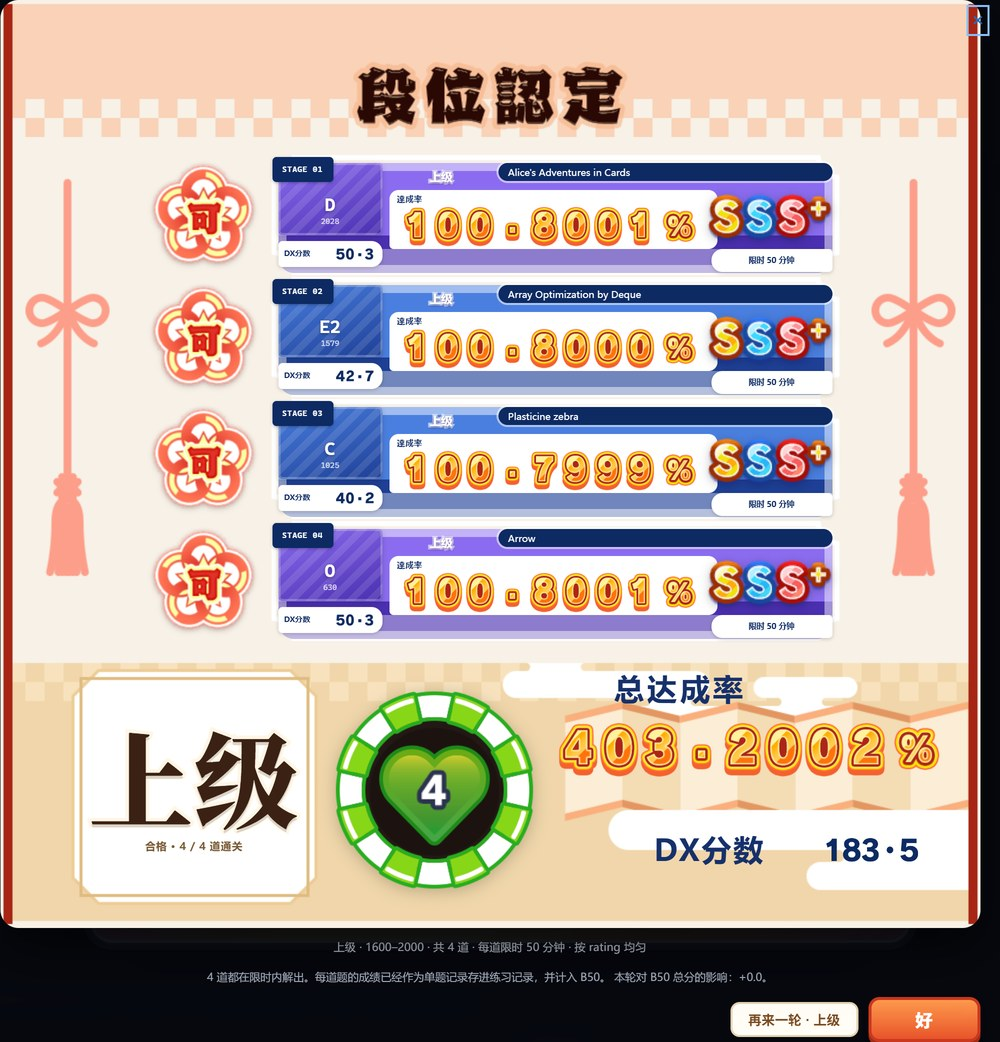
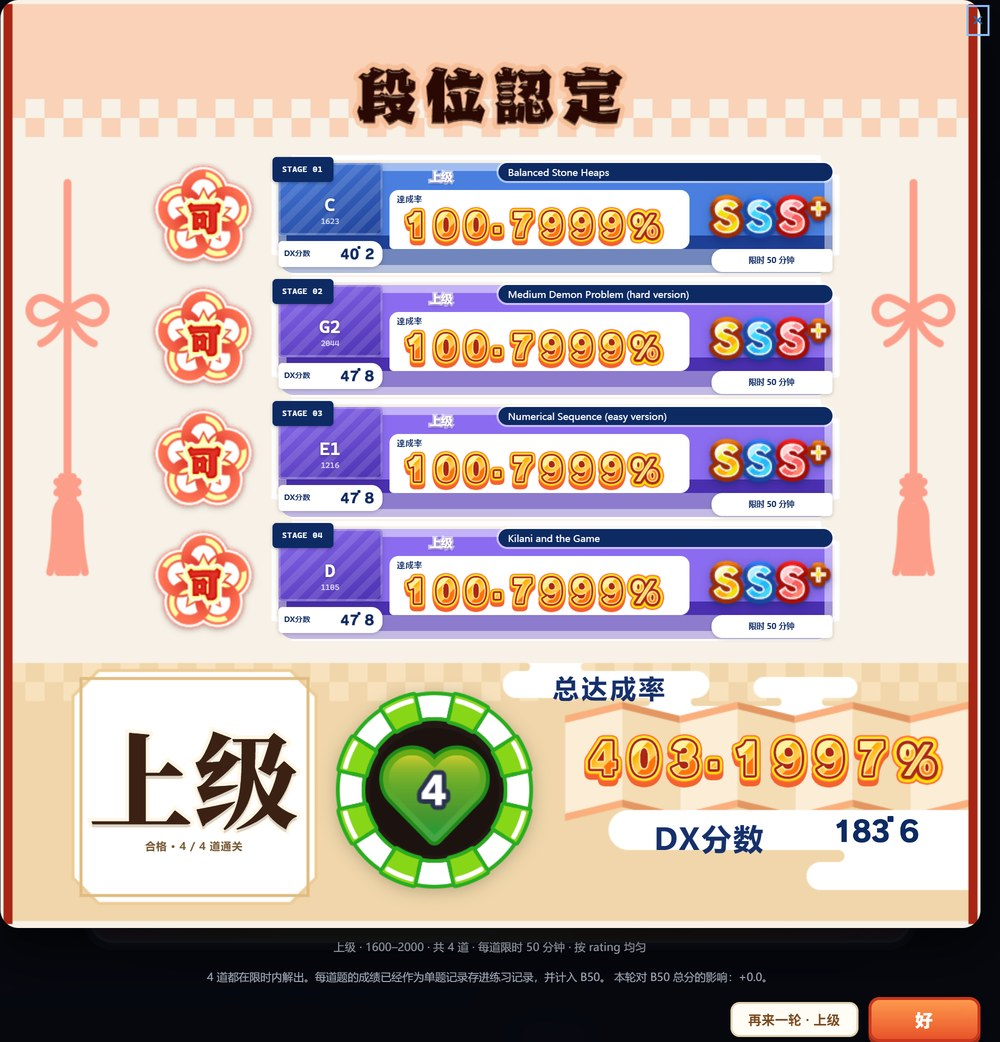
fix: tighten the dan digits, narrow the score box, lift the DX row
第 13 轮的第二次返工（对着渲染图逐条改）：

- **字距**：分数族的「.」那一格墨迹只有 33px 宽、格子却有 74，左右各留 20px 空白 ——
  照格宽排出来就是「403 ・ 1998」中间断一截；末尾那个「%」是 80×80 的方图，四周同样
  留白，直排又多一截。现在 numText 对窄字形按**墨迹裁格**（格宽取墨宽、背景左移掉左空、
  步进另给 36），「%」放大到 1.1 倍字高再用负边距抵掉左边留白。数字本身仍是等宽步进
  （和官方一致），只是不再被格子留白撑开。
- **小数点**：白字族图集里的小数点是个**居中方块**（26p 那张只有 8×8、y 18..25），
  小字号下读起来像断字符 —— DX 分数（单题 rating / DX 总分）改成**自画的贴底方块**
  （边长 0.19 字高，底边压在数字基线上）。达成率那串仍用图集自带的方形小数点（官方那张
  就是居中的方块）。
- **卡片分数格**：白框 328 → 300 宽。原来框尾 439、徽章从 436 起，徽章压着框的一角，
  看着像徽章占了分数格；现在框尾 411、徽章左 436，中间留 25px。E2E 新增一条断言：
  数字不许溢出白框、白框与徽章至少留 10px（数字宽度取里面那串 .dan-num 的实际宽度）。
- **底带**：`总达成率` 字号 30 → 26，按实测白区 `x 503..708` 居中（原来排在 583..690，
  偏右）；大数字下移 8px、字高 60 → 66、右端 945 → 950；`DX分数` 那一行原来跟着
  360×80 的白牌垂直居中，可白牌下半截被折页斜切掉一块，文字一半落在折线上，现在靠上排
  （y 816 起）。

顺带修掉 E2E 里两处坐标系混用：行内格子是行坐标、印与徽章是底图坐标，`inRow()` 之前
给徽章又加了一次行原点，导致扣图与断言都在错的偏移上（像素探针里「可」印的红像素因此
从 2820 掉到 999）。

314 个单测 / 三个场景的 E2E / 像素探针全绿。

diff --git a/public/dan.js b/public/dan.js
@@ -670,15 +670,18 @@ const SCORE_INDEX = {
  * 分开」。官方是等距密排（字与字几乎贴上），所以每格按 `advance` 收回去一点，见 numText。
  */
 const NUM_FONTS = {
-  n26: { fill: 'num-26p', outline: 'num-26p-outline', atlas: [136, 160], cell: [34, 40], advance: 24, chars: NUM_INDEX },
-  n90: { fill: 'num-90p', outline: 'num-90p-outline', atlas: [356, 420], cell: [89, 105], advance: 67, chars: NUM_INDEX },
+  // `ink` 是那几格**窄字形**的墨迹（左空 + 墨宽 + 步进），单位是图集像素 —— 图集按格宽排字
+  // 会把小数点两侧各空出 20/74 格，看着就是「403 ・ 1998」中间断了一截。
+  // `baseline` 是数字墨迹底线在格高里的比例，画小数点方块时按它贴底。
+  n26: { fill: 'num-26p', outline: 'num-26p-outline', atlas: [136, 160], cell: [34, 40], advance: 24, baseline: 0.825, dot: 'drawn', chars: NUM_INDEX, ink: { '.': [14, 8, 16] } },
+  n90: { fill: 'num-90p', outline: 'num-90p-outline', atlas: [356, 420], cell: [89, 105], advance: 67, baseline: 0.886, dot: 'drawn', chars: NUM_INDEX, ink: { '.': [32, 24, 32] } },
   // 分数数字是**三套**同布局不同颜色的图集（自带颜色，不再叠描边层）：
 // blue / gold / red，按达成率高低换。官方还有一张 `UI_NUM_Score_0001111_Base`，
 // 但那是一张**空图集**（整张几乎全透明，量下来 16 格一个字形都没有），不能用；
 // 「%」字形也正好只有蓝/金/红三张 —— 所以官方的档位就是三档，不是四档。
-'score-blue': { fill: 'num-score-blue', outline: '', atlas: [296, 392], cell: [74, 98], advance: 67, chars: SCORE_INDEX },
-  'score-gold': { fill: 'num-score-gold', outline: '', atlas: [296, 392], cell: [74, 98], advance: 67, chars: SCORE_INDEX },
-  'score-red': { fill: 'num-score-red', outline: '', atlas: [296, 392], cell: [74, 98], advance: 67, chars: SCORE_INDEX },
+'score-blue': { fill: 'num-score-blue', outline: '', atlas: [296, 392], cell: [74, 98], advance: 67, baseline: 0.836, dot: 'atlas', chars: SCORE_INDEX, ink: { '.': [21, 33, 36] } },
+  'score-gold': { fill: 'num-score-gold', outline: '', atlas: [296, 392], cell: [74, 98], advance: 67, baseline: 0.836, dot: 'atlas', chars: SCORE_INDEX, ink: { '.': [21, 33, 36] } },
+  'score-red': { fill: 'num-score-red', outline: '', atlas: [296, 392], cell: [74, 98], advance: 67, baseline: 0.836, dot: 'atlas', chars: SCORE_INDEX, ink: { '.': [21, 33, 36] } },
 };
 const NUM_COLS = 4;
 /** 达成率末尾那个大「%」字形：官方按分数分色，蓝/金/红三张。 */
@@ -706,7 +709,11 @@ function achievementNumber(achievement, height) {
   const percent = el('img', 'dan-per');
   percent.src = `/assets/maimai/${art}`;
   percent.alt = '';
-  percent.style.height = `${Math.round(height * 0.95)}px`;
+  // 官方那个「%」跟数字差不多高，而且**贴着**最后一个数字。`score-per-*` 是 80×80 的方图、
+  // 四周留白（墨迹 x 8..70 / y 10..69），直排会在数字和 % 之间多出一截空隙，所以放大一点
+  // 再把左边那圈留白用负边距抵掉。
+  percent.style.height = `${Math.round(height * 1.1)}px`;
+  percent.style.marginLeft = `${-Math.round(height * 0.16)}px`;
   wrap.append(percent);
   return wrap;
 }
@@ -737,15 +744,27 @@ function numText(text, fontKey, height, color, opts = {}) {
   wrap.setAttribute('aria-label', text);
   wrap.style.height = `${height}px`;
   const chars = [...text];
-  if (opts.trim !== false) {
-    // 每格右边收回 (格宽 − 步进)：官方数字是密排的，留白会把一串数字读散。
-    // 注意是**负**边距 —— 这里给的是「要收回多少」，CSS 里带负号用。
-    wrap.style.setProperty('--dan-num-trim', `${(font.cell[0] - (font.advance ?? font.cell[0])) * scale}px`);
-  }
   chars.forEach((ch, index) => {
     const cell = el('i', 'dan-num-char');
     cell.style.height = `${height}px`;
     if (index === chars.length - 1) cell.classList.add('dan-num-last');
+    // 白字族图集里的小数点是个**居中的方块**（26p 那张只有 8×8、y 18..25，正在字高中间），
+    // 小字号下读起来像断字符。这两个字号自己画一个贴底的方块当小数点。
+    if (ch === '.' && font.dot === 'drawn') {
+      const dot = Math.max(3, Math.round(height * 0.19));
+      const step = Math.round(height * 0.3);
+      cell.classList.add('dan-num-dot');
+      cell.style.width = `${dot}px`;
+      cell.style.setProperty('--dan-num-trim', `${dot - step}px`);
+      const ink = el('b', 'dan-num-dotink');
+      ink.style.width = `${dot}px`;
+      ink.style.height = `${dot}px`;
+      ink.style.background = color ?? NUM_OUTLINE_COLOR;
+      ink.style.marginBottom = `${Math.round(height * (1 - font.baseline))}px`;
+      cell.append(ink);
+      wrap.append(cell);
+      return;
+    }
     const idx = font.chars[ch];
     if (idx === undefined) {
       cell.textContent = ch;
@@ -754,11 +773,22 @@ function numText(text, fontKey, height, color, opts = {}) {
       wrap.append(cell);
       return;
     }
+    // 窄字形（小数点、逗号）按**墨迹**裁格：格宽取墨宽、背景左移掉左空，步进另给一个小的，
+    // 不然格子里那 20px 空白会整个变成字距。其余字形保持格宽，字距只按 advance 收。
+    const box = font.ink?.[ch];
+    const inkLeft = box ? box[0] : 0;
+    const inkWidth = box ? box[1] : font.cell[0];
+    const advance = box ? box[2] : (font.advance ?? font.cell[0]);
     const sx = (idx % NUM_COLS) * font.cell[0];
     const sy = Math.floor(idx / NUM_COLS) * font.cell[1];
     const size = `${font.atlas[0] * scale}px ${font.atlas[1] * scale}px`;
-    const pos = `${-sx * scale}px ${-sy * scale}px`;
-    cell.style.width = `${font.cell[0] * scale}px`;
+    const pos = `${-(sx + inkLeft) * scale}px ${-sy * scale}px`;
+    cell.style.width = `${inkWidth * scale}px`;
+    if (opts.trim !== false) {
+      // 每格右边收回 (格宽 − 步进)：官方数字是密排的，留白会把一串数字读散。
+      // 注意是**负**边距 —— 这里给的是「要收回多少」，CSS 里带负号用。
+      cell.style.setProperty('--dan-num-trim', `${(inkWidth - advance) * scale}px`);
+    }
     if (font.outline && opts.outline !== false) {
       const outline = el('b', 'dan-num-outline');
       const url = `url(/assets/maimai/${font.outline}.png)`;

diff --git a/public/dan.css b/public/dan.css
@@ -196,6 +196,9 @@
  * 最后一格不收回，免得数字尾巴多出一段空白。 */
 .dan-num-char { position: relative; display: block; flex: none; margin-right: calc(-1 * var(--dan-num-trim, 0px)); }
 .dan-num-char.dan-num-last { margin-right: 0; }
+/* 白字族的小数点：自画的贴底方块（图集那张居中方块在小字号下像断字符）。 */
+.dan-num-dot { display: flex; align-items: flex-end; justify-content: center; }
+.dan-num-dotink { display: block; border-radius: 1px; }
 .dan-num-char > b { position: absolute; inset: 0; display: block; background-repeat: no-repeat; }
 .dan-num-plain { display: grid; place-items: center; color: #4a3a2a; font-family: var(--mono); font-weight: 900; line-height: 1; }
 
@@ -286,16 +289,17 @@
   font-size: .68rem; line-height: 18px; color: #fff;
   overflow: hidden; text-overflow: ellipsis; white-space: nowrap;
 }
-/* 达成率白框：官方那一格是 `UI_AchivementCounter`，白底圆角，小字在框内左上。 */
+/* 达成率白框：官方那一格是 `UI_AchivementCounter`，白底圆角，小字在框内左上。
+ * 宽度收窄到 300：右边那一列是评级徽章，框再宽就会被 SSS+ 压住一角。 */
 .dan-track-achbox {
-  position: absolute; left: 111px; top: 27px; width: 328px; height: 59px;
+  position: absolute; left: 111px; top: 27px; width: 300px; height: 59px;
   border-radius: 9px 9px 9px 4px; background: #fff;
 }
 .dan-track-achlabel {
   position: absolute; left: 8px; top: 3px; font-size: .56rem; font-weight: 900; letter-spacing: .08em; color: #0d2a63;
 }
 /* 官方那一格数字是**贴着白框左边**排的（不是右对齐），而且几乎顶满框高。 */
-.dan-track-achvalue { position: absolute; left: 10px; top: 14px; width: 318px; height: 45px; display: flex; align-items: center; justify-content: flex-start; gap: 2px; }
+.dan-track-achvalue { position: absolute; left: 10px; top: 14px; width: 290px; height: 45px; display: flex; align-items: center; justify-content: flex-start; }
 .dan-per { display: block; }
 /* 右边一列两件：评级徽章（官方 `UI_GAM_Rank_*`，游戏内那套单级全套）与限时白牌。
  * 徽章源图是紧裁的（SSS+ 110×44、D 38×42），给 132×52 的框按高度贴齐 —— 比原来
@@ -354,20 +358,23 @@
 /* 总达成率：标签写进底图预留的白格，大数字落在下面的色带上，右端对齐 x 945
  * （与下面那条 DX 分数白牌的右端同一条边）。 */
 .dan-total-row { position: absolute; inset: 0; }
+/* 「总达成率」四个字写在白格**偏左**的位置（官方那四个字不在白格正中），字号也压到 26。
+ * 底图这块白实测是 x 503..708（右边那截 753..856 被折页斜边切开），所以按 503..708 居中。 */
 .dan-total-label {
   position: absolute; left: 503px; top: 663px; width: 354px; height: 52px;
-  display: grid; place-items: center;
-  font-size: 30px; font-weight: 800; letter-spacing: .1em; color: #16306b;
+  display: grid; place-items: center; padding-right: 140px;
+  font-size: 26px; font-weight: 800; letter-spacing: .1em; color: #16306b;
 }
 .dan-total-num {
-  position: absolute; left: 490px; top: 719px; width: 455px; height: 60px;
-  display: flex; align-items: center; justify-content: flex-end; gap: 2px;
+  position: absolute; left: 490px; top: 727px; width: 460px; height: 66px;
+  display: flex; align-items: center; justify-content: flex-end;
 }
 /* DX 分数：官方这条白牌就是底图预留的 (608,810) 360×80，标签在左、数字在右，
- * 都是深蓝（和每题那张卡上的 DX 分数同一个色）。 */
+ * 都是深蓝（和每题那张卡上的 DX 分数同一个色）。白牌下半截被折页斜切掉一块，
+ * 所以文字靠上排（顶到 y 816），不跟着整块矩形居中。 */
 .dan-dxscore-row {
   position: absolute; left: 608px; top: 810px; width: 360px; height: 80px;
-  display: flex; align-items: center; justify-content: space-between; padding: 0 46px;
+  display: flex; align-items: flex-start; justify-content: space-between; padding: 6px 46px 0;
 }
 .dan-dxscore-label { font-size: 30px; font-weight: 800; letter-spacing: .06em; color: #16306b; }
 .dan-dxscore-num { display: flex; align-items: center; }

diff --git a/docs/dan.md b/docs/dan.md
@@ -166,8 +166,13 @@ active ──四道全部通关──→ cleared（通过）
 - **逐题卡**：每道一张。左侧一枚原作印（`UI_DNM_Icon_Result_01` 可 / `_02` 不可，未抽到的变灰）；右侧横卡用原作底板 `UI_DNM_Result_musicBase_01` 撑起来，上面再压一层**乐曲边框** —— 版式照官方 `UI_CMN_RSL_KopMBase_*`（640×140）逐像素量出来画：外圈浅色环 + 主色场 + 底部浅色带 + 左侧曲绘槽 + 深蓝标题条（带官方那圈白边）+ 白色达成率框 + 深蓝行首小牌（官方 `JaketTrack`）。**颜色不烘死**：官方那五张（BSC/ADV/EXP/MST/MST_Re）把难度色和难度名都印在图里，套不上我们自己的 CF 分档，所以边框按 `--tc1/--tc2` 上色（`cfRatingColor(...).tone` → `TRACK_TONE`）。
 - **信息分配改了官方的排法**：官方右边一列挤了四件（评级 / 难度分 / 限时 / DX分数），四道并排看下来就是一堵字墙。现在左边是「跟题目走的东西」—— 曲绘槽换成**按档位色上色**的题号牌（官方那格是白底，纯白在满屏深色里就是一块洞），下面挂一块白牌写这道题的单题 rating（`DX分数`）；难度名牌那一格写**档位名**（官方烘的是 `MASTER 大師` 这类难度名，我们这边对应的就是档位）；右边只留**评级徽章**与这道题的限时白牌。达成率大数字 + 官方彩色「%」字形仍在中间，数字**贴着白框左边**排（官方就是这样，不是右对齐）。
 - **评级徽章用游戏内那套**：`UI_GAM_Rank_*`（`D`/`C`/`B`/`BB`/`BBB`/`A`/`AA`/`AAA`/`S`/`S+`/`SS`/`SS+`/`SSS`/`SSS+` 单级各一张，源图紧裁 36–110 × 42–44）。早先用的是 `UI_CMN_TabTitle_Rank_*` —— 那是**页签标题**用的区间图：AAA 那张画的是「A～AAA」、BBB 那张是「～BBB」，摆在逐题卡片上根本不是那一级的评级，而且它没有 D/C/B/BB/A/AA 这些级，低分全挤在同一张牌上。换过来之后 14 级一级一张，框按 `132×52` 按高度贴齐。
-- **底部色带**：左下白框那一格原作放**段位名牌**，我们发档位不发段位名，就把档位名（`初级`/`中级`/`上级`/`超上级`/…）照原版那样写进去 —— 深棕重字 + 很淡的米白描边（`-webkit-text-stroke` + `paint-order: stroke fill`）+ 一点投影。原版那两个字是**烘死的毛笔字贴图**（`UI_DNM_DaniTitle_*` 只有日文段位名，套不上我们的档位），只能用系统字体近似：字体栈取 `Noto Serif SC` 的 **900** 字重（次选系统宋体/楷体那一类衬线），SimSun 那种细宋笔画只有原版一半粗。名字超过两个字自动缩号（`data-len`）。名字下面一行小字写「合格 · 4 / 4 道通关」。中间是原作的剩余生命底盘（`UI_DNM_Base_Life_01` 绿 / `_03` 红），照官方放大到 `200×200`，心里那个数字是「四道里过了几道」（数字图集里没有「/」字形，退回普通文字会被两边数字的描边吃掉，所以不写 `4/4`）。右边两块**照底图预留的白格**摆：`总达成率` 写进上面那格白（`(503,663) 354×50` 居中），官方数字图集拼的大数字落在下面的色带上、右端对齐 `x 945`；`DX分数` 与它的数字写进下面那条白牌（`(608,810) 360×80`，标签在左、数字在右，两端各留 46px，左端那个空的白圆头按原样空着），两处都是和标题条同一个深蓝 `#16306b`。
+- **底部色带**：左下白框那一格原作放**段位名牌**，我们发档位不发段位名，就把档位名（`初级`/`中级`/`上级`/`超上级`/…）照原版那样写进去 —— 深棕重字 + 很淡的米白描边（`-webkit-text-stroke` + `paint-order: stroke fill`）+ 一点投影。原版那两个字是**烘死的毛笔字贴图**（`UI_DNM_DaniTitle_*` 只有日文段位名，套不上我们的档位），只能用系统字体近似：字体栈取 `Noto Serif SC` 的 **900** 字重（次选系统宋体/楷体那一类衬线），SimSun 那种细宋笔画只有原版一半粗。名字超过两个字自动缩号（`data-len`）。名字下面一行小字写「合格 · 4 / 4 道通关」。中间是原作的剩余生命底盘（`UI_DNM_Base_Life_01` 绿 / `_03` 红），照官方放大到 `200×200`，心里那个数字是「四道里过了几道」（数字图集里没有「/」字形，退回普通文字会被两边数字的描边吃掉，所以不写 `4/4`）。右边两块**照底图预留的白格**摆：`总达成率` 写进上面那格白（实测白区是 `x 503..708`，右边那截 `753..856` 被折页斜边切开，所以四个字按 `503..708` **居中**、字号 26），官方数字图集拼的大数字落在下面的色带上（`y 727`、字高 66，右端对齐 `x 950`）；`DX分数` 与它的数字写进下面那条白牌（`(608,810) 360×80`，标签在左、数字在右，两端各留 46px，左端那个空的白圆头按原样空着，文字靠上排 —— 白牌下半截也被折页切掉一块），两处都是和标题条同一个深蓝 `#16306b`。
 - 数字不是 CSS 字体画的：**官方数字图集逐格切**。图集是规整 4×4 网格，格子由同名 Sprite 定 rect；白字族每格拆成「官方 `_Outline` 剪影当遮罩上深色（描边）+ 官方填充图集」两层 —— 图集本身是**纯白剪影**（游戏运行时才染色），background 层没法单独染色，所以用两个真元素叠。这套「剪影 + 运行时染色」的能力也直接用在了 DX 分数上（染成帧上的深蓝 `#0d2a63`，见下）。对照表（一张张看出来的）：白字族 `[0-9]` `[10]'+'` `[11]'-'` `[12]','` `[13]'·'`（居中的圆点，就是这套字体的小数点）`[14]'%'`；分数族 `[10]'+'` `[11]'/'` `[12]'%'` `[13]'.'`。
+- **数字怎么排**：图集每格都留了一圈空白（分数族格宽 74、字形只有 60–63），照**格宽**排字会读成「一个字一个字分开」。`numText()` 因此按格位分两种处理：
+  - 普通字形：格宽照旧，右边收回 `格宽 − advance`（分数族 74→67、90p 89→67、26p 34→24，见 `NUM_FONTS.advance`），最后一格不收回；
+  - **窄字形**（`.`）：按**墨迹**裁格 —— 分数族那个小数点墨迹只有 `x 21..53`，格子里左右各留 21/20 像素的空白，直接排出来「403 ・ 1998」中间就断了一截。所以格宽取墨宽、背景左移掉左空、步进另给一个小的（36）。
+  - **小数点**：白字族（26p / 90p）图集里的小数点是个**居中方块**（26p 那张只有 8×8、`y 18..25`，正好在字高中间），小字号下读起来像断字符 —— 所以 DX 分数（单题 rating、DX 总分）的小数点改成**自画的贴底方块**（边长 `0.19 × 字高`，底边压在数字墨迹的基线上）。达成率那串仍用图集自带的方形小数点：官方那张就是居中的方块。
+  - **末尾的「%」**：它是独立图片（80×80、墨迹 `x 8..70`），按 `<img>` 直排会在数字和 `%` 之间多出一截，所以放大到 `1.1 × 字高` 再用负边距把左边的留白抵掉。
 - **达成率按分数换色**：官方那套 `UI_NUM_Score_0001111_{Blue,Gold,Red}` 是同布局的三色分数图集（自带颜色、不叠描边），末尾的大「%」字形 `UI_RSL_Score_Per_{Blue,Gold,Red}` 同样三色 —— 所以达成率的档位就是三档：`≥100%` 金（SSS/SSS+）、`≥97%` 蓝（S～SS+）、再低红。`scoreTone()` 在 `public/dan.js` 里，换色在同一条 `achievementNumber()` 里做。**官方那张 `UI_NUM_Score_0001111_Base` 是一张空图集**（16 格里一个字形都没有，整张只有几列杂散像素），照它渲染出来就是一片看不见的灰影，别用。三档同时出现的样子：
 
 <a href="images/dan-settlement-mixed.jpg"><img src="images/dan-settlement-mixed.jpg" alt="四道达成率分别为 100.8 / 98.5 / 96.0 / 92.0 时的结算页：金、蓝、红三色" width="620"></a>
